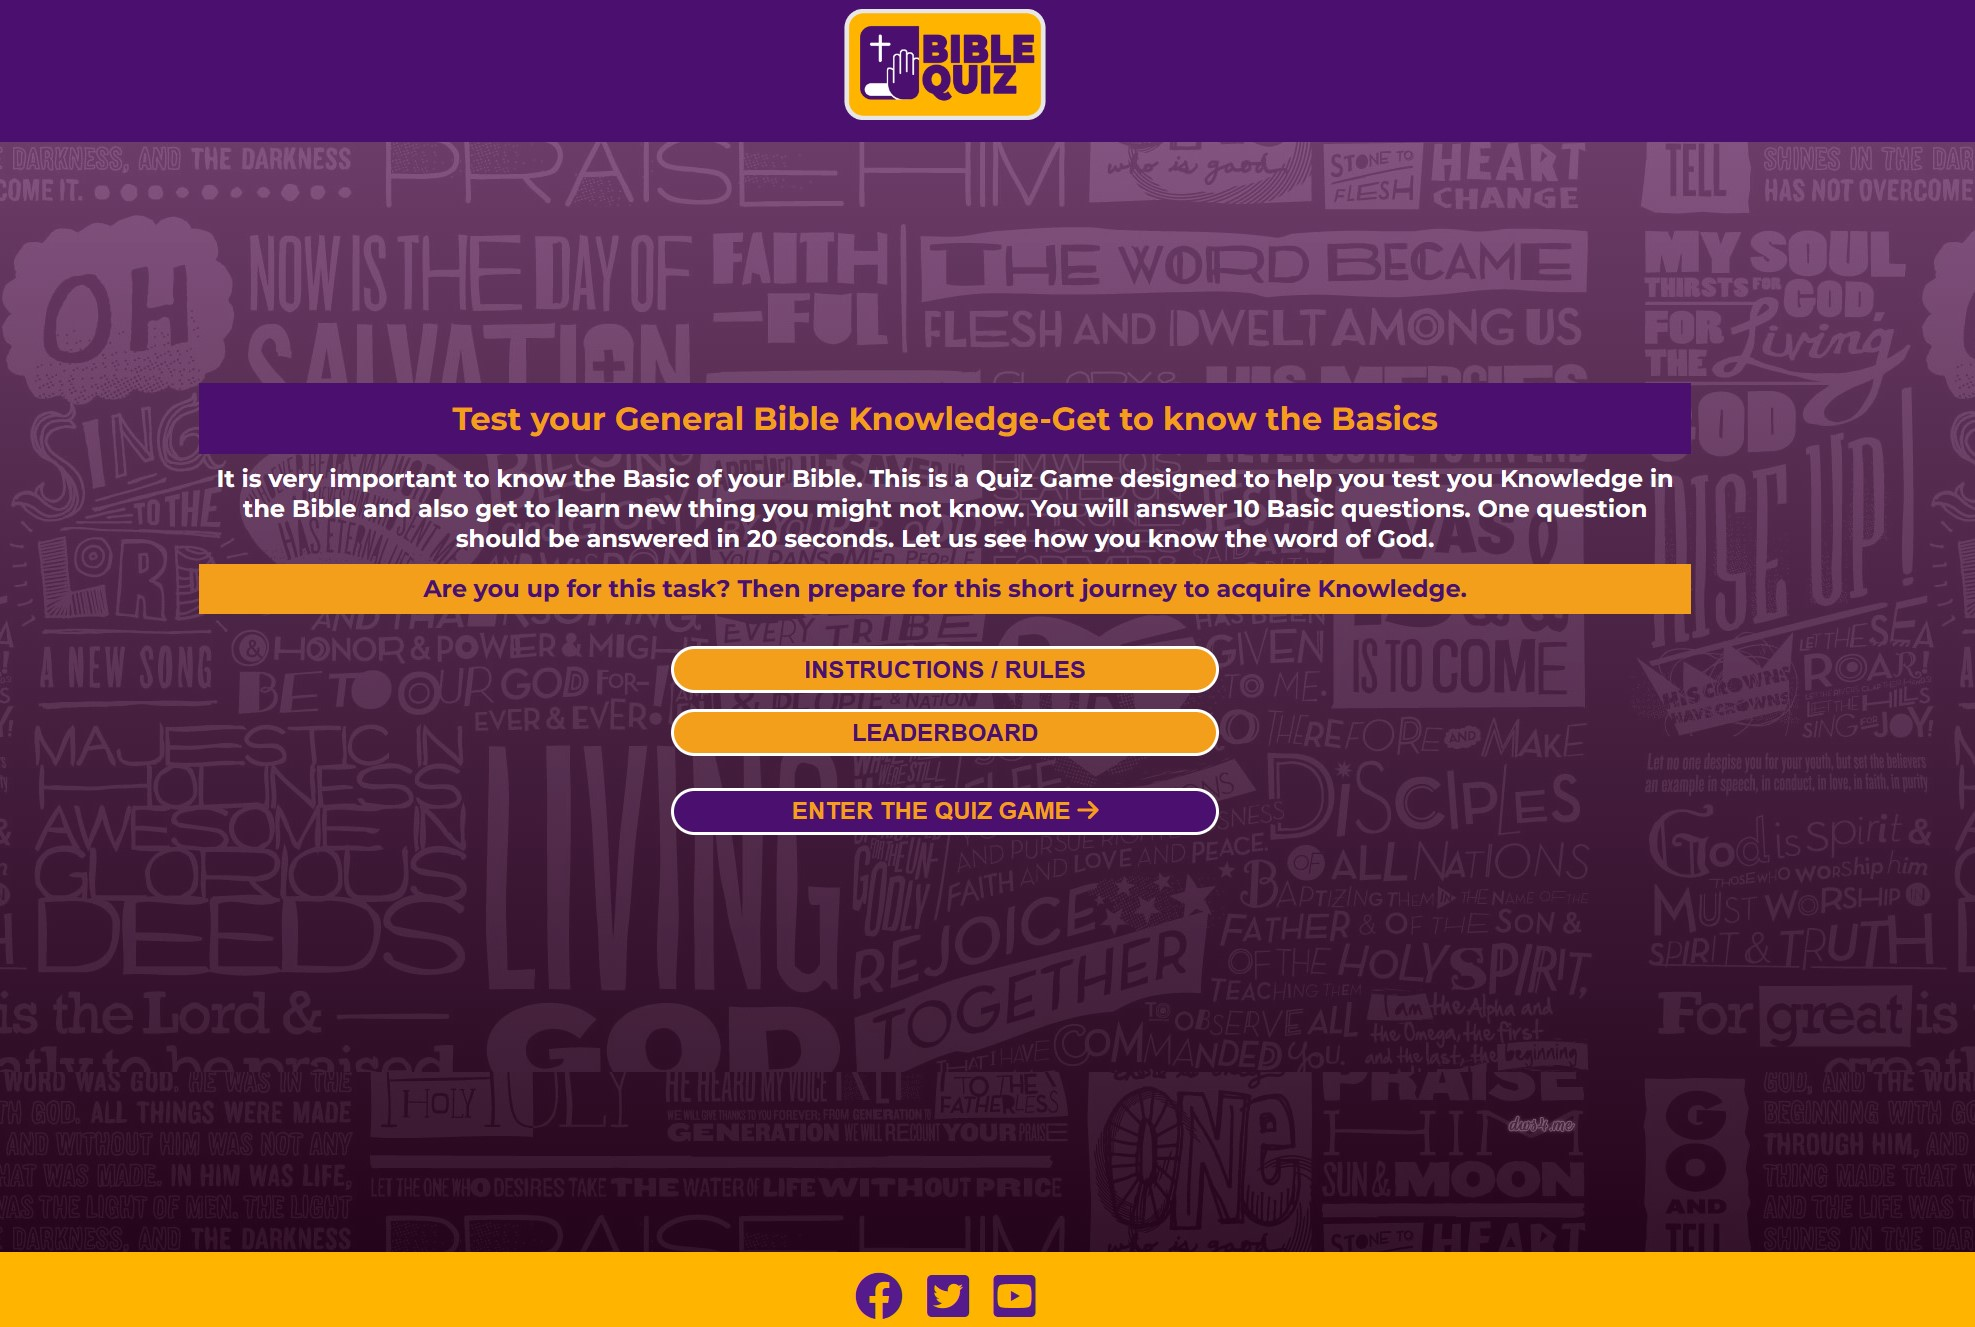
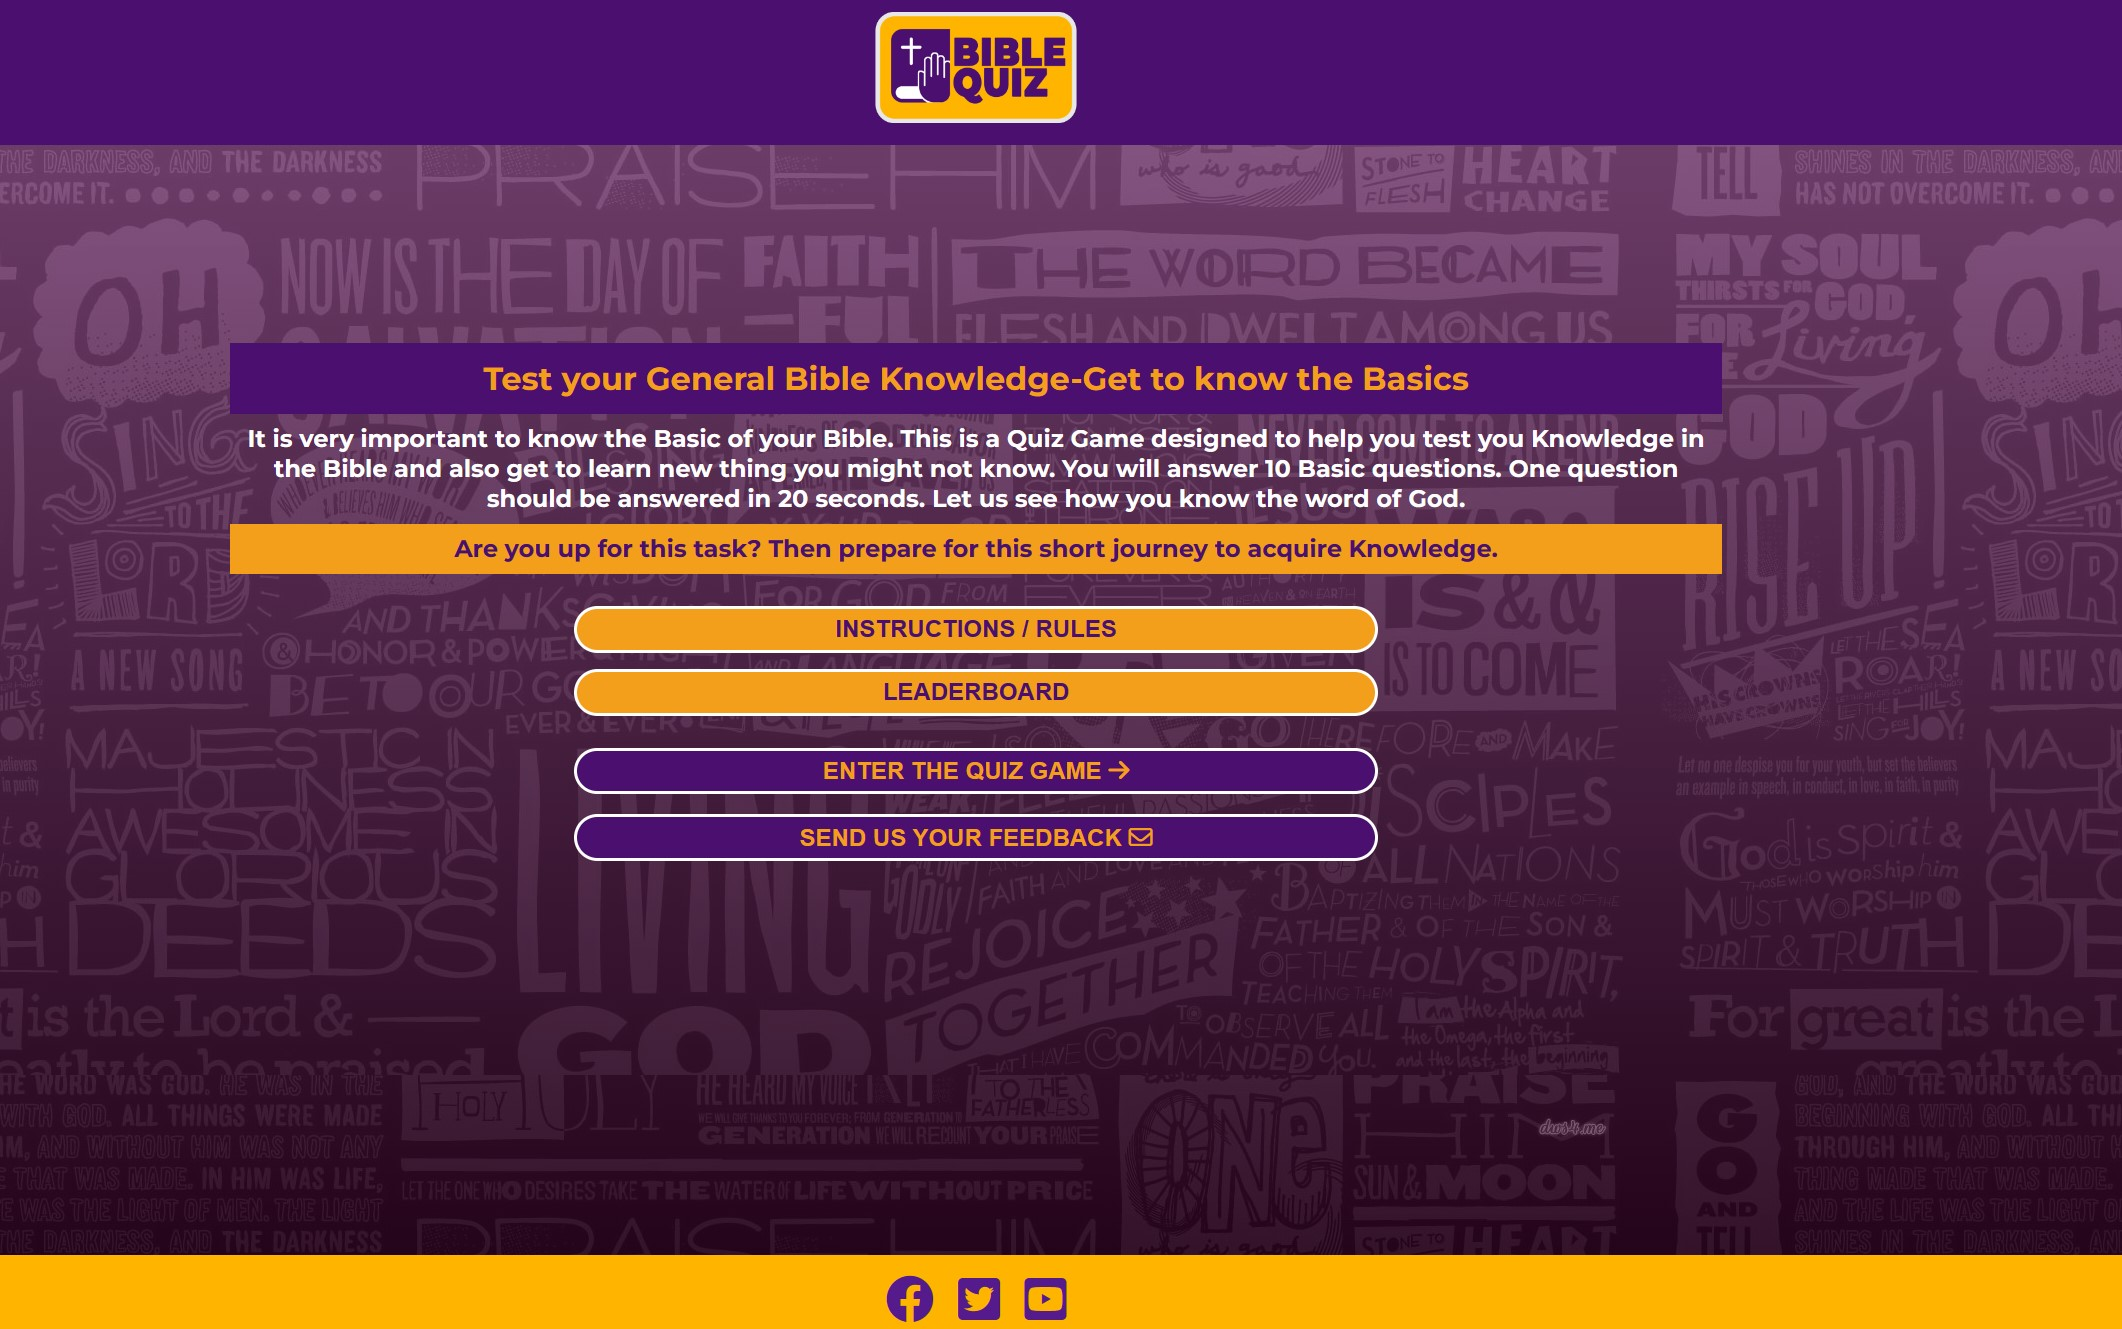
Added feedback test to README.md

diff --git a/README.md b/README.md
@@ -46,6 +46,7 @@ View the live site [here](https://benohene.github.io/ya-bible-quiz-project/)
 - <strong>INSTRUCTION BUTTON</strong> User can click on the this button to access a POP-UP window for instructions to the quiz.
 - <strong>LEADERBOARD BUTTON</strong> User can click on the this button to access the leaderboard page which contains Username, score and date of the game played.
 - <strong>ENTER THE QUIZ BUTTON</strong> user can click on this button to access navigate to the start screen of the quiz.
+- <strong>FEEDBACK BUTTON</strong> user can click on this button to be redirected to send feedback message.
 
 ![Homepage main content](doc/readme-images/homepage-main-content.jpg)
 
@@ -276,6 +277,11 @@ The result was quiet good. The testing was done one all the pages both on deskto
 - ### Enter Quiz Button
 
   - This will navigate from the homepage to the start page for username input and also access to start the quiz game-PASS
+
+- ### Feedback Button
+
+  - This will redirect the user to any available/default email app to send emails-PASS
+![Feedback](doc/testing-images/email-to.jpg)
 
 - ### Footer
   - With 3 social media links. Click on icons to navigate to various social media platforms in a new window-PASS
